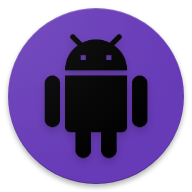
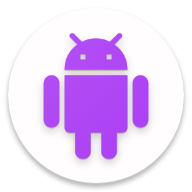
Added fade for portrait button.

diff --git a/index.html b/index.html
@@ -16,7 +16,12 @@
 
          <div class="portrait">
 
-            <div id="f2_container">
+            <div id="portrait-fade">
+               <img class="bottom" src="images/purple-matrix.png" />
+               <img class="top" src="images/john-bono.png" />
+            </div>
+
+            <!-- <div id="f2_container">
                <div id="f2_card" class="shadow">
                   <div class="pfront pface">
                      <img src="images/john-bono.png"/>
@@ -25,9 +30,8 @@
                      <img src="images/purple-matrix.png"/>
                   </div>
                </div>
-               </div>
+               </div> -->
 
-            <!-- <div class="image"><img src="images/john-bono.png"></div> -->
          </div>
          <h1 class="name">John Bono</h1>
          <div class="position">Android Developer</div>

diff --git a/style.css b/style.css
@@ -64,11 +64,11 @@ pre {
 .portrait {
     margin-top: 75px;
 
-    display: -webkit-flex;
-    display: flex;
+    /*display: -webkit-flex;
+    display: flex;*/
 
-    align-items: center;
-    justify-content: center;
+    /*align-items: center;
+    justify-content: center;*/
 }
 
 .name {
@@ -459,3 +459,22 @@ pre {
 }
 
 
+#portrait-fade {
+  position:relative;
+  height:200px;
+  width:190px;
+  margin:0 auto;
+}
+
+#portrait-fade img {
+  position:absolute;
+  left:0;
+  -webkit-transition: opacity 1s ease-in-out;
+  -moz-transition: opacity 1s ease-in-out;
+  -o-transition: opacity 1s ease-in-out;
+  transition: opacity 1s ease-in-out;
+}
+
+#portrait-fade img.top:hover {
+  opacity:0;
+}
